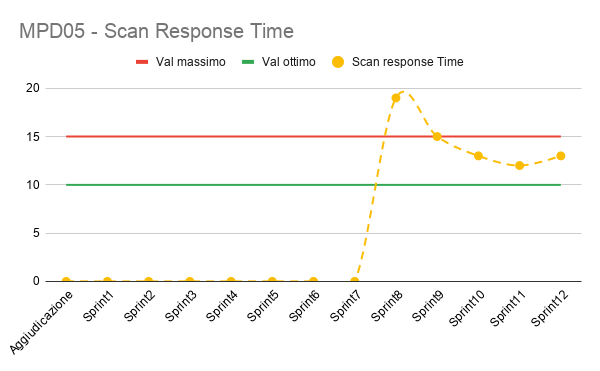
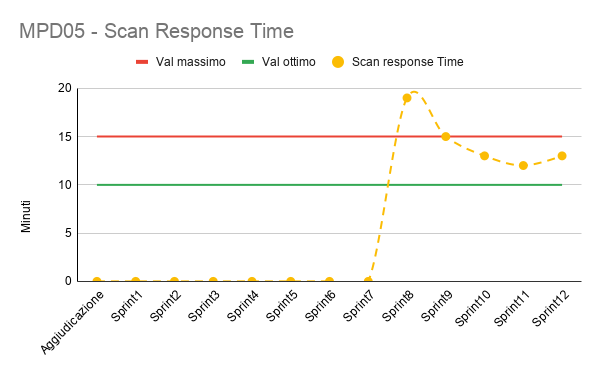
Hot fixes grafici del cruscotto

diff --git a/Source/PB/Piano_Di_Qualifica.tex b/Source/PB/Piano_Di_Qualifica.tex
@@ -4695,6 +4695,20 @@ Dal grafico si osserva un miglioramento costante nella correttezza ortografica d
 Nella fase di Product Baseline, la documentazione preesistente mantiene un livello di eccellenza, registrando la totale assenza di errori ortografici per l'intero periodo. Si rileva tuttavia la comparsa di alcune isolate imperfezioni tra lo Sprint\textsuperscript{G} 9 e lo Sprint\textsuperscript{G} 11: queste sono fisiologicamente legate alla prima stesura dei nuovi e corposi documenti tecnici (Specifica e Manuale). Grazie ai processi interni di verifica, tali sviste sono state prontamente individuate e sanate, permettendo al team di azzerare nuovamente il conteggio nello Sprint\textsuperscript{G} 12.
 \newpage
 
+\subsection{Code Coverage (MPC-12)}
+Monitoraggio della copertura del codice nei test effettuati.
+\begin{figure}[h!]
+    \centering
+    \includegraphics[width=0.8\textwidth]{../Assets/pdq/CC.png}
+    \caption{Andamento della copertura del codice}
+    \label{fig:code_coverage}
+\end{figure}
+\subsubsection*{RTB}
+Metrica non disponibile per la fase di RTB.
+\subsubsection*{PB}
+Il grafico relativo alla Code Coverage testimonia il progressivo e costante sforzo di validazione intrapreso dal team parallelamente allo sviluppo del prodotto. Coerentemente con l'avvio della stesura del codice sorgente, la metrica inizia a registrare i primi incrementi a partire dallo Sprint\textsuperscript{G} 9. Da quel momento, l'indicatore evidenzia una rapida ascesa che riflette l'intensificarsi delle attività di testing. Tale progressione ha consentito di colmare il divario iniziale e di superare con successo la rigorosa soglia minima di accettabilità (70\%) proprio nello Sprint\textsuperscript{G} 12, chiudendo la fase conclusiva con un livello di copertura adeguato a garantire la qualità e la robustezza del software rilasciato.
+\newpage
+
 \subsection{Quality metrics satisfied (MPC-14)}
 \begin{figure}[h!]
     \centering